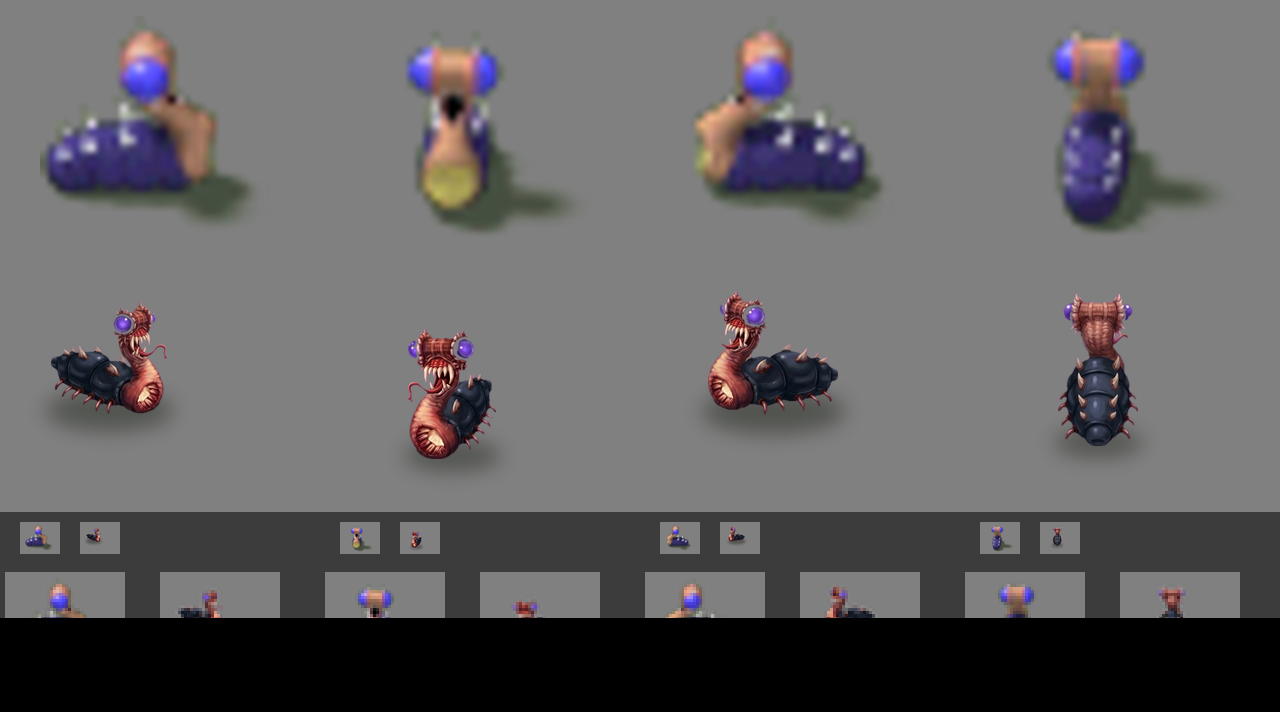
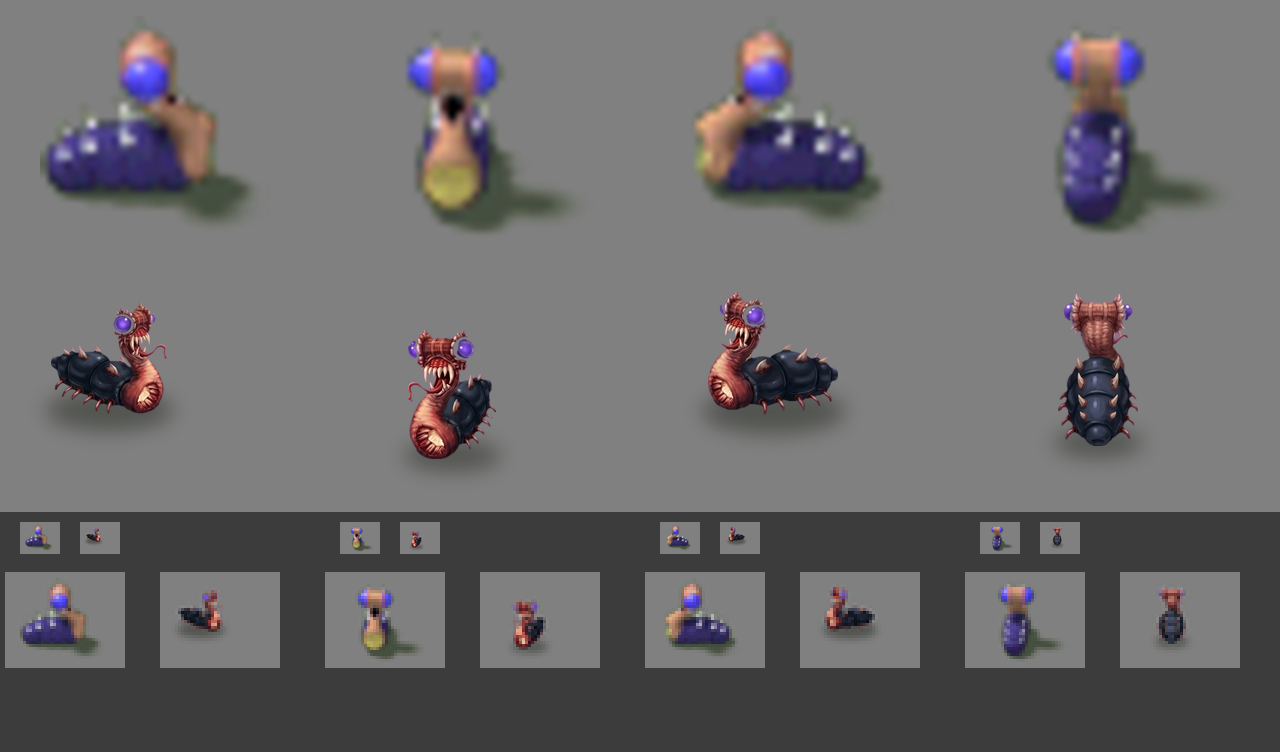
Bolt test2: fix compare image crop
Claude-Session: https://claude.ai/code/session_01SMsyPA2gdtNVrQYtH9AZv3

diff --git a/web/tools/bolt-kit/make_compare2.py b/web/tools/bolt-kit/make_compare2.py
@@ -80,7 +80,7 @@ grey=(128,128,128)
 def tile_bg(im):
     b=Image.new('RGBA',im.size,grey+(255,)); b.alpha_composite(im.convert('RGBA')); return b
 order=[0,1,2,3]  # east,south,west,north
-rows=Image.new('RGB',(4*cellw,3*cellh-150),(60,60,60))
+rows=Image.new('RGB',(4*cellw,3*cellh),(60,60,60))
 for i,q in enumerate(order):
     rows.paste(tiles_old[q].convert('RGB'),(i*cellw,0))
     rows.paste(tile_bg(tiles_new[q]).convert('RGB'),(i*cellw,cellh))
@@ -91,5 +91,5 @@ for i,q in enumerate(order):
     # also 3x magnified real size for readability
     rows.paste(ro.resize((cellw//8*3,cellh//8*3),Image.NEAREST),(i*cellw+10,2*cellh+60) if False else (i*cellw+5,2*cellh+60))
     rows.paste(rn.resize((cellw//8*3,cellh//8*3),Image.NEAREST),(i*cellw+160,2*cellh+60))
-rows=rows.crop((0,0,rows.size[0],2*cellh+200)); rows.save('D:/Coding/BYMR/art-trials/bolt/test2-compare.png')
+rows=rows.crop((0,0,rows.size[0],2*cellh+240)); rows.save('D:/Coding/BYMR/art-trials/bolt/test2-compare.png')
 for q,t in enumerate(tiles_new): t.save(K+f'tmp/new{q}.png')
